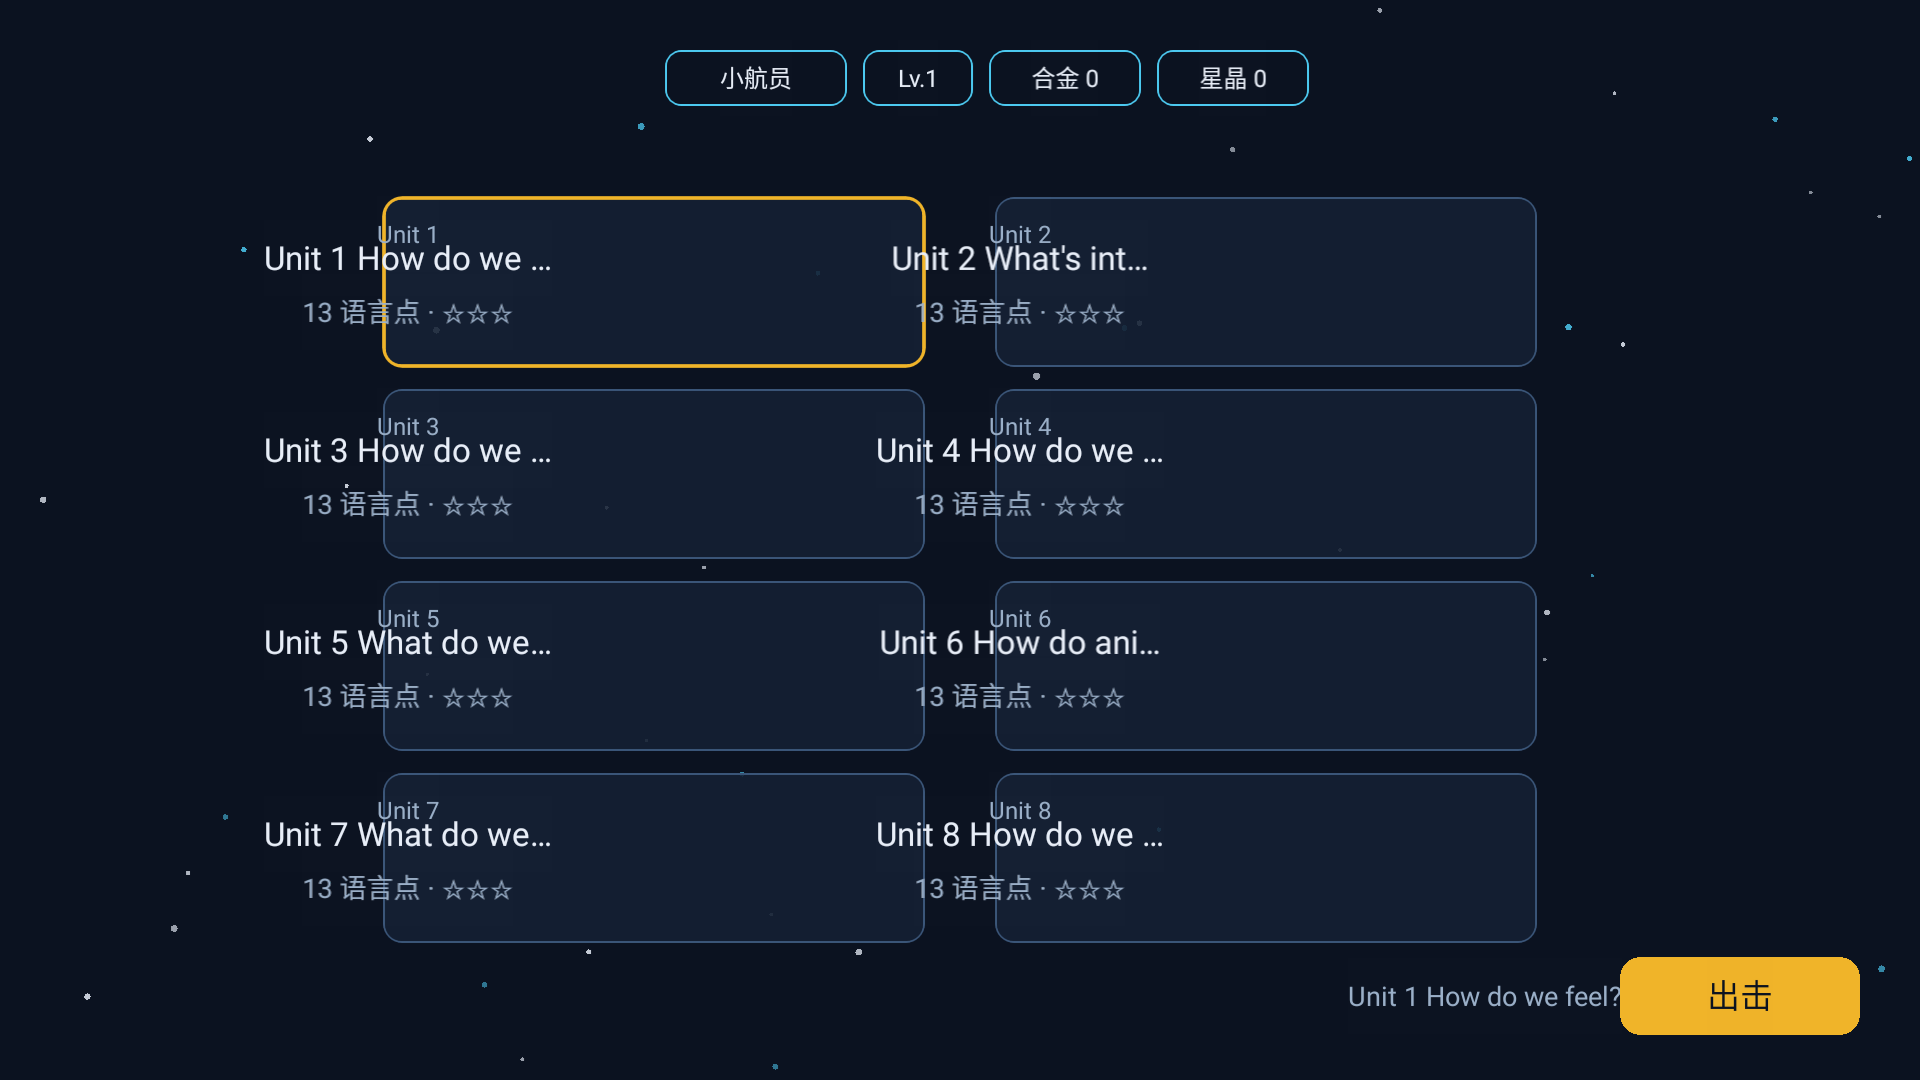
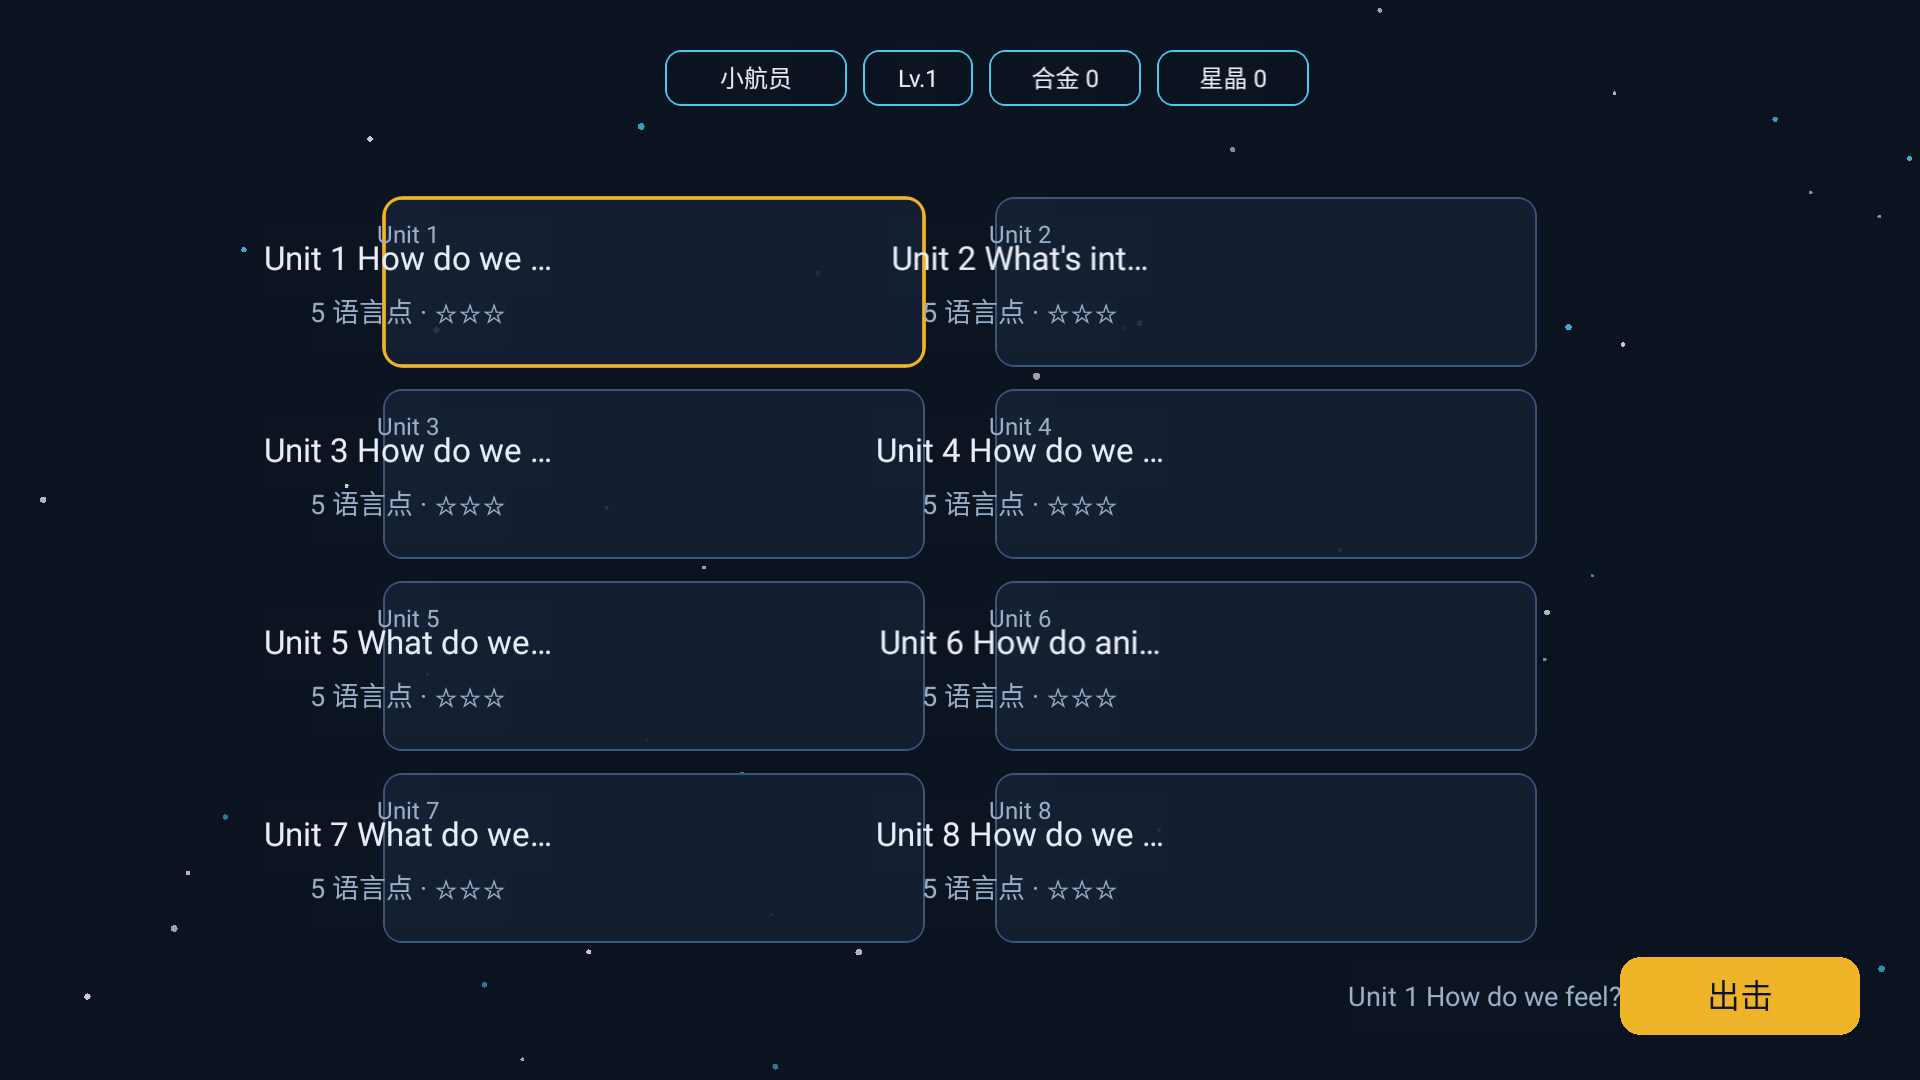
docs: 刷新含 Battle 的 Native APK 与截图
出包含答题战局的 debug 包，并更新星图/出击/战斗冒烟截图。

diff --git a/docs/screenshot/README.md b/docs/screenshot/README.md
@@ -1,19 +1,12 @@
 # 界面截图
 
-本目录由 E2E / 冒烟采集，对应文档场景（见 `docs/architecture/cocos-app.md`）。
+本目录为 Cocos Native 冒烟截图，对应主链路场景（见 `docs/architecture/cocos-app.md`、`docs/product/GDD-v2-cocos.md`）。
 
 | 文件 | 场景 / 说明 |
 |------|-------------|
-| `01-profile.png` | Profile：创建孩子档案 |
-| `02-base-starmap.png` | Base + StarMap |
-| `03-weapons.png` | 武器库 |
-| `04-pets.png` | 宠物舱 |
-| `05-battle.png` | Battle |
-| `06-settlement.png` | Settlement |
-| `07-native-boot.png` | Cocos Native Boot / Profile |
-| `08-native-starmap.png` | Cocos Native 星图 |
-| `09-native-sortie.png` | Cocos Native 出击反馈 |
+| `07-native-boot.png` | Profile：建档出航 |
+| `08-native-starmap.png` | StarMap：单元选择 |
+| `09-native-sortie.png` | Sortie：出击确认 |
+| `10-native-battle.png` | Battle：听力作答（Boss 形态 1/4） |
 
-Web 截图：`cd play && npm run test:e2e`（Playwright 写入本目录）。
-
-Native 主链路：`adb install -r releases/language-astronauts-debug.apk` 后冷启动，横屏 `adb exec-out screencap -p` 采集 `07–09`（见 `.superpowers/sdd/task-8-brief.md`）。
+采集：`adb install -r releases/language-astronauts-debug.apk` 后横屏操作，`adb exec-out screencap -p`。